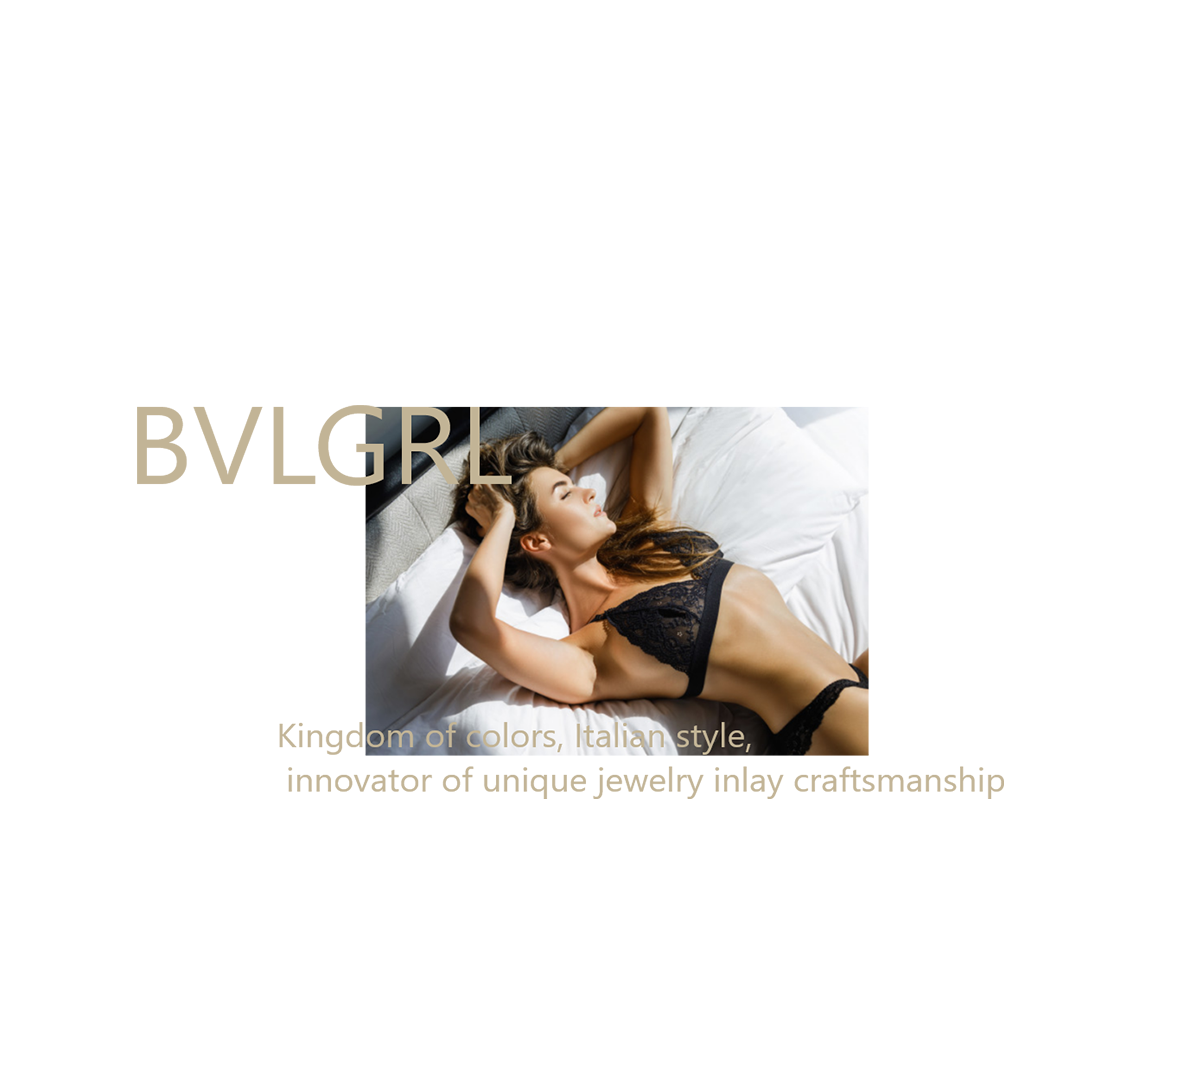
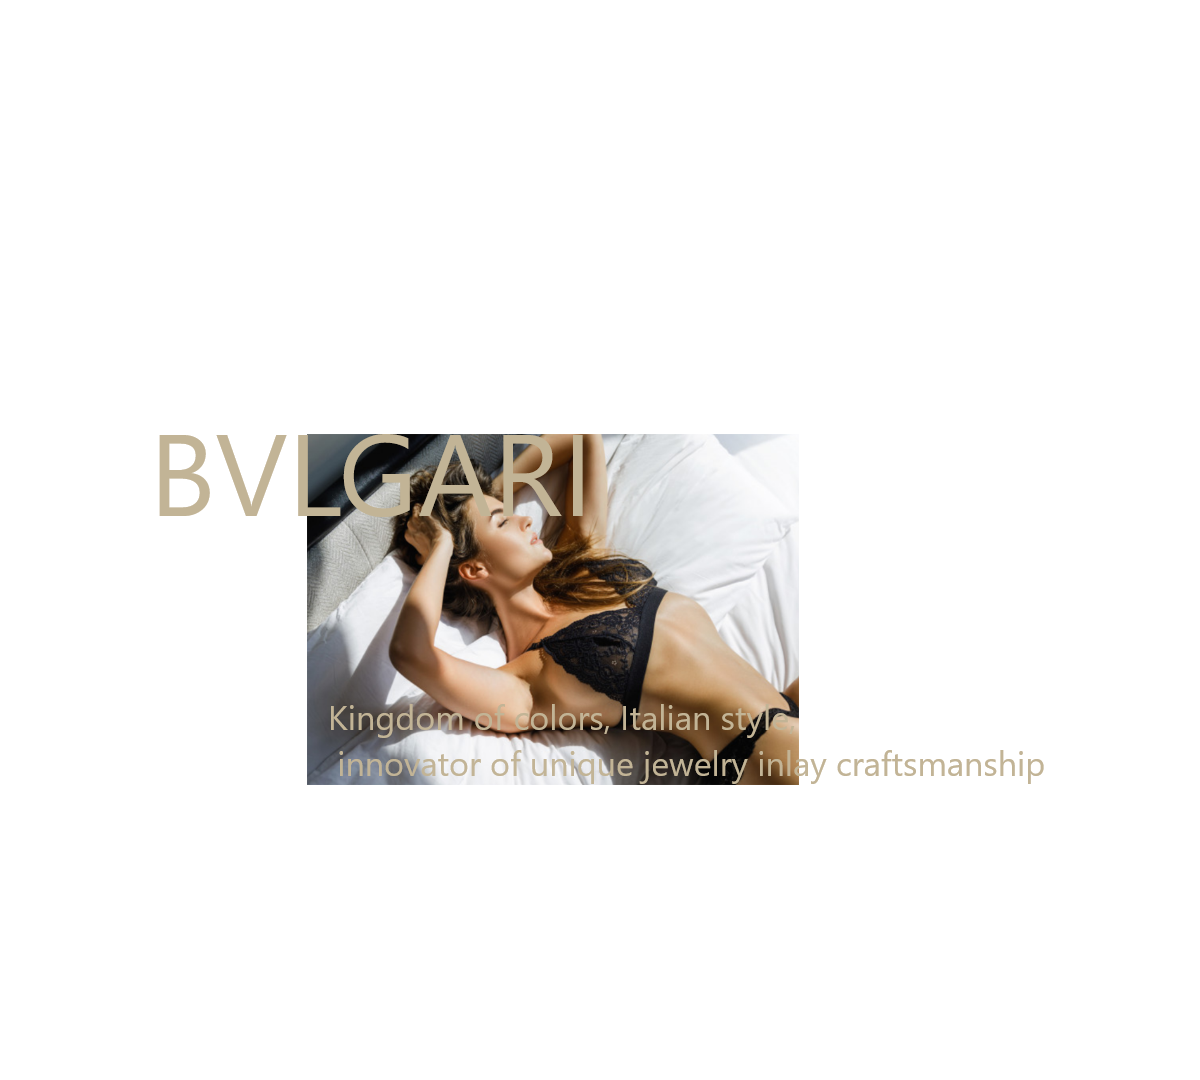
q

Changed region(s): [[0.0925, 0.3667, 0.8633, 0.7333], [0.7092, 0.4583, 0.74, 0.4889]]

diff --git a/index_test.html b/index_test.html
@@ -1,0 +1,218 @@
+<!DOCTYPE html>
+<html lang="en">
+
+<head>
+  <meta charset="utf-8">
+  <title>Swiper demo</title>
+  <meta name="viewport" content="width=device-width, initial-scale=1, minimum-scale=1, maximum-scale=1">
+  <link rel="stylesheet" href="./css/model.css">
+  <link rel="stylesheet" href="./css/index.css">
+  <!-- Link Swiper's CSS -->
+  <link rel="stylesheet" href="https://unpkg.com/swiper/swiper-bundle.min.css">
+
+  <!-- Demo styles -->
+  <style>
+    html,
+    body {
+      position: relative;
+      height: 100%;
+    }
+
+    body {
+      /* background: #eee;  */
+      font-family: Helvetica Neue, Helvetica, Arial, sans-serif;
+      font-size: 14px;
+      color: #000;
+      margin: 0;
+      padding: 0;
+    }
+
+    .swiper-container {
+      width: 100%;
+      height: 100%;
+      margin-left: auto;
+      margin-right: auto;
+    }
+
+    .swiper-slide {
+      text-align: center;
+      font-size: 18px;
+      background: #fff;
+
+      /* Center slide text vertically */
+
+    }
+  </style>
+</head>
+
+<body>
+  <!-- Swiper -->
+  <div class="swiper-container">
+    <div class="swiper-wrapper">
+      <div class="swiper-slide slide1">
+        <header>
+            <div class="header">
+              <input type="checkbox" id="menu_control">
+              <a href="index.html"><img src="./img/logoblackborder-new.png" alt="#"></a>
+              <label for="menu_control" class="menu_btn"><span>選單</span></label>
+                  <ul class="menu">
+                      <li><a href="guide page.html">Guide</a></li>
+                      <li>
+                          <a href="#">Product ▼ </a>
+                          <ol>
+                              <li><a href="floral herbal note.html">floral&herbal</a></li>
+                              <li><a href="woody note.html">woody</a></li>
+                              <li><a href="oriental note.html">oriental</a></li>
+                          </ol>
+                      </li>
+                      <li><a href="shop.html">Shop</a></li>
+                      <li><a href="contact us.html">Contact us</a></li>
+                  </ul>
+            </div>
+        </header>
+          <div class="annotation">
+            <h3>Duke</h3>
+            <p>在平凡中的生活中<br/>
+              尋找著不平凡的氣味
+            </p>
+          </div>
+      </div>
+      <div class="swiper-slide slide2">
+        <header>
+            <div class="header">
+              <input type="checkbox" id="menu_control">
+              <a href="index.html"><img src="./img/logowhiteborder-new.png" alt="#"></a>
+              <label for="menu_control" class="menu_btn"><span>選單</span></label>
+                  <ul class="menu">
+                      <li><a href="guide page.html">Guide</a></li>
+                      <li>
+                          <a href="#">Product ▼ </a>
+                          <ol>
+                              <li><a href="floral herbal note.html">floral&herbal</a></li>
+                              <li><a href="woody note.html">woody</a></li>
+                              <li><a href="oriental note.html">oriental</a></li>
+                          </ol>
+                      </li>
+                      <li><a href="shop.html">Shop</a></li>
+                      <li><a href="contact us.html">Contact us</a></li>
+                  </ul>
+            </div>
+        </header>
+          <div class="main">
+            <!-- <h1>BVLGARI</h1>
+            <img src="./img/home/BVLGARI.png" alt="#">
+            <h3>Kingdom of colors, Italian style,<br/>
+              innovator of unique jewelry inlay craftsmanship</h3> -->
+          </div>
+      </div>
+      <div class="swiper-slide slide3">
+        <header>
+            <div class="header">
+              <input type="checkbox" id="menu_control">
+              <a href="index.html"><img src="./img/logowhiteborder-new.png" alt="#"></a>
+              <label for="menu_control" class="menu_btn"><span>選單</span></label>
+                  <ul class="menu">
+                      <li><a href="guide page.html">Guide</a></li>
+                      <li>
+                          <a href="#">Product ▼ </a>
+                          <ol>
+                              <li><a href="floral herbal note.html">floral&herbal</a></li>
+                              <li><a href="woody note.html">woody</a></li>
+                              <li><a href="oriental note.html">oriental</a></li>
+                          </ol>
+                      </li>
+                      <li><a href="shop.html">Shop</a></li>
+                      <li><a href="contact us.html">Contact us</a></li>
+                  </ul>
+            </div>
+        </header>
+          <div class="main">
+            <!-- <h1>DIOR</h1>
+            <img src="./img/home/DIOR.png" alt="#">
+            <h3>Feel what's real</h3> -->
+          </div>
+      </div>
+      <div class="swiper-slide slide4">
+        <header>
+            <div class="header">
+              <input type="checkbox" id="menu_control">
+              <a href="index.html"><img src="./img/logowhiteborder-new.png" alt="#"></a>
+              <label for="menu_control" class="menu_btn"><span>選單</span></label>
+                  <ul class="menu">
+                      <li><a href="guide page.html">Guide</a></li>
+                      <li>
+                          <a href="#">Product ▼ </a>
+                          <ol>
+                              <li><a href="floral herbal note.html">floral&herbal</a></li>
+                              <li><a href="woody note.html">woody</a></li>
+                              <li><a href="oriental note.html">oriental</a></li>
+                          </ol>
+                      </li>
+                      <li><a href="shop.html">Shop</a></li>
+                      <li><a href="contact us.html">Contact us</a></li>
+                  </ul>
+            </div>
+        </header>
+          <div class="main">
+            <!-- <h1>CHANEL</h1>
+            <h3>No one can have our dream,no one</h3> -->
+          </div> 
+      </div>
+      <div class="swiper-slide slide5">
+        <header>
+            <div class="header">
+              <input type="checkbox" id="menu_control">
+              <a href="index.html"><img src="./img/logowhiteborder-new.png" alt="#"></a>
+              <label for="menu_control" class="menu_btn"><span>選單</span></label>
+                  <ul class="menu">
+                      <li><a href="guide page.html">Guide</a></li>
+                      <li>
+                          <a href="#">Product ▼ </a>
+                          <ol>
+                              <li><a href="floral herbal note.html">floral&herbal</a></li>
+                              <li><a href="woody note.html">woody</a></li>
+                              <li><a href="oriental note.html">oriental</a></li>
+                          </ol>
+                      </li>
+                      <li><a href="shop.html">Shop</a></li>
+                      <li><a href="contact us.html">Contact us</a></li>
+                  </ul>
+            </div>
+        </header>
+          <div class="main">
+            <!-- <h1>CALVIN KLIEN</h1>
+            <h3>Nothing comes between<br/>
+              me and my Calvin’s 
+            </h3> -->
+          </div>
+      </div>
+     
+    </div>
+    <!-- Add Pagination -->
+    <div class="swiper-pagination"></div>
+    <!-- Add Arrows -->
+    
+  </div>
+
+  <!-- Swiper JS -->
+  <script src="https://unpkg.com/swiper/swiper-bundle.min.js"></script>
+
+  <!-- Initialize Swiper -->
+  <script>
+    var swiper = new Swiper('.swiper-container', {
+      slidesPerView: 1,
+      // spaceBetween: 30,
+      loop: true,
+      pagination: {
+        el: '.swiper-pagination',
+        clickable: true,
+      },
+      navigation: {
+        nextEl: '.swiper-button-next',
+        prevEl: '.swiper-button-prev',
+      },
+    });
+  </script>
+</body>
+
+</html>

diff --git a/css/woody note-main page.css b/css/woody note-main page.css
@@ -50,11 +50,11 @@ body{
 .section1_top h1{
     text-align: center;
     font-size: 100px;
-    max-width: 375px;
+    max-width: 430px;
     width: 100%;
     margin:0 auto;
     color:#E9EDD4;
-    /* z-index: 2; */
+    z-index: 2;
 }
 .section1_mid{
     display: block;
@@ -80,7 +80,7 @@ body{
     text-align: center;
     font-size: 100px; 
     color:#E9EDD4;
-    /* z-index: 2; */
+    z-index: 2;
 }
 @media (max-width:767px){
     .section1{

diff --git a/css/shop.css b/css/shop.css
@@ -108,10 +108,13 @@ body{
     position: relative;
     margin-right: 10px;
     margin-bottom: 10px;
-    border:2px solid black;
+    border:2px solid #727272;
     background-color: #fff;
 
     
+}
+.main li:hover{
+    box-shadow:4px 4px 12px 4px rgba(20%,20%,40%,0.5);
 }
 .main li .pro{
     /* outline: 1px solid red; */

diff --git a/woody note-main page.html b/woody note-main page.html
@@ -74,7 +74,7 @@
         </header>
         <div class="section1">
             <div class="section1_top">
-                <h1>BVLGRI</h1>
+                <h1>BVLGARI</h1>
             </div>
             <div class="section1_mid">
                 <img src="./img/woodynotepicture/BVLGRI POUR HOMME EXTREME-new.png" alt="">

diff --git a/css/index.css b/css/index.css
@@ -128,7 +128,9 @@ body {
   margin-right: 50px;
   z-index: 2;
 }
-@media (max-width:767px){}
+@media (max-width:767px){
+  
+}
 @media screen and (min-width: 768px) and (max-width: 991px){}
 @media screen and (min-width: 992px) and (max-width: 1199px){}
 @media screen and (min-width: 1200px){}
